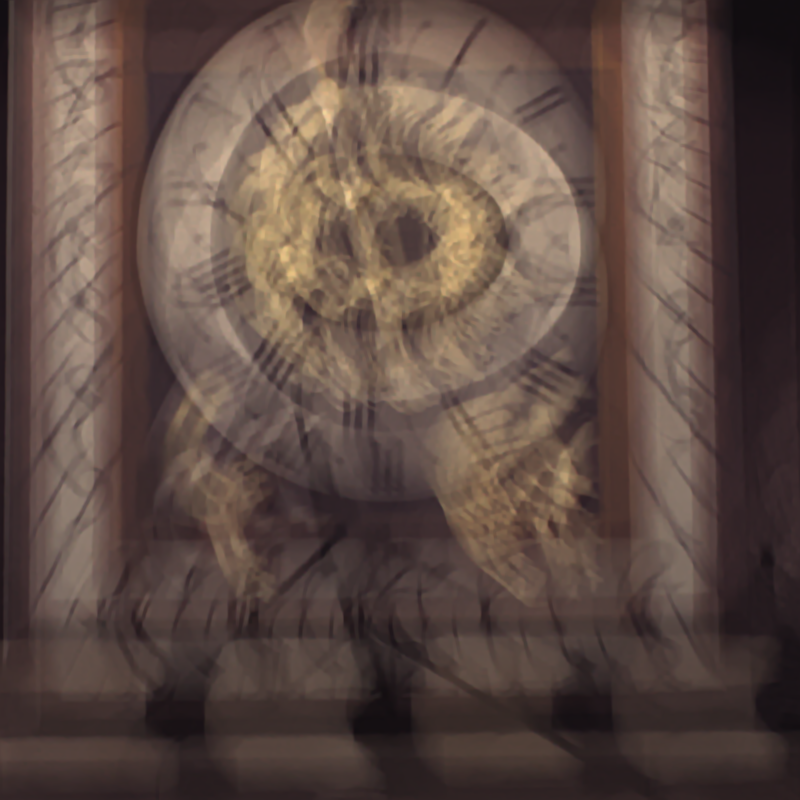
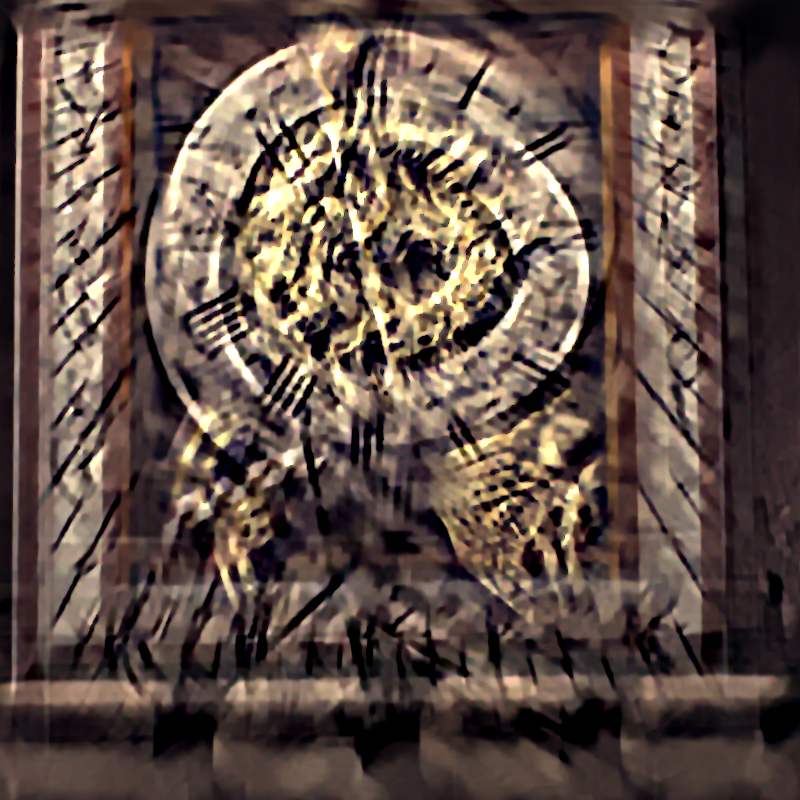
More Results

diff --git a/Image Deblurring With Phase and Dark Channels/demo_deblurring.py b/Image Deblurring With Phase and Dark Channels/demo_deblurring.py
@@ -16,7 +16,7 @@ from metrics import psnr
 def main():
     # Specify your input image file path
    
-    image_path = 'images/blurry2_8.png'
+    image_path = 'images/blurry3_8.png'
     # print()
     # Create the results directory if it doesn't exist
     results_dir = 'results'
@@ -31,17 +31,17 @@ def main():
         'xk_iter': 5,    # Iterations
         'gamma_correct': 1.0,
         'k_thresh': 20,
-        'kernel_size':121,
+        'kernel_size':179,
     }
 
     lambda_dark = 4e-3
     #Experimenting with lambda_dark set to 0
     lambda_ftr = 4e-1
     lambda_dark = 0
-    lambda_grad = 4e-3
-    lambda_tv = 0.0035
+    lambda_grad = 4e-1
+    lambda_tv = 0.001
     # lambda_l0 = 5e-4
-    lambda_l0 = 3e-4
+    lambda_l0 = 2e-4
     weight_ring = 1
     is_select = False  # Set to True if you want to select a specific area for deblurring
 
@@ -86,7 +86,7 @@ def main():
     Latent = Latent.numpy()
     Latent = Latent.astype('uint8')
     Latent = Image.fromarray(Latent)
-    Latent.save(os.path.join(results_dir, f'Radi2_8.png'))
+    Latent.save(os.path.join(results_dir, f'Radi3_8.png'))
 
     kmn = kernel.min()
     kmx = kernel.max()
@@ -95,7 +95,7 @@ def main():
     kernel = kernel.numpy()
     kernel = kernel.astype('uint8')
     kernel = Image.fromarray(kernel)
-    kernel.save(os.path.join(results_dir, f'Radi2_8_kernel.png'))    
+    kernel.save(os.path.join(results_dir, f'Radi3_8_kernel.png'))    
     # Lmx = Latent.max()
     # Lmn = Latent.min()
     # Latent = (Latent - Lmn)/(Lmx - Lmn)
